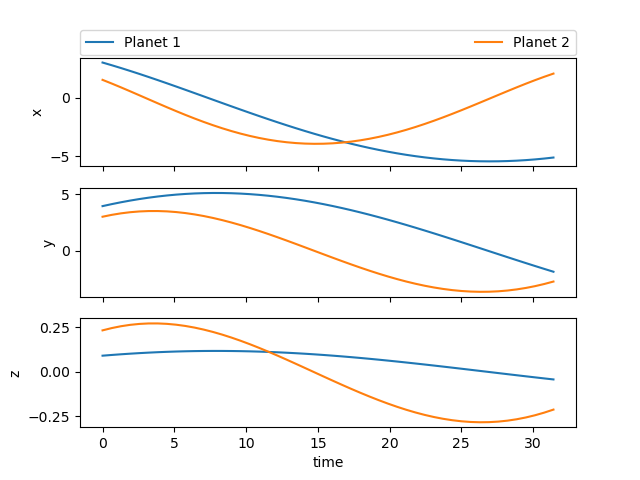
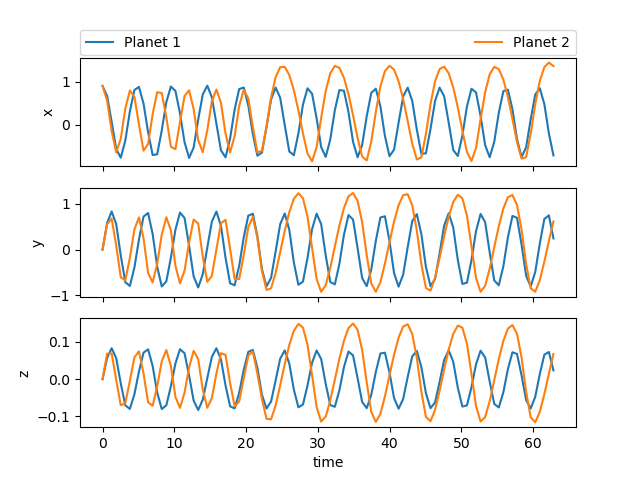
test_lyapunov improvements

diff --git a/python/lyapunov_exponent.py b/python/lyapunov_exponent.py
@@ -1,8 +1,8 @@
 import rebound
 import numpy as np
 import warnings
-import matplotlib
 import matplotlib.pyplot as plt
+from matplotlib import cm
 import visualize_orbit
 
 
@@ -31,7 +31,7 @@ def simu(sim, t):
     with warnings.catch_warnings(record=True) as w:
          warnings.simplefilter("always")
          sim.integrate(t*jov_yr)
-    return  sim, sim.calculate_megno(),(sim.calculate_lyapunov()/(2.*np.pi)) # returns MEGNO and Lypunov exp in 1/years
+    return  sim,(sim.calculate_lyapunov()/(2.*np.pi)) # returns MEGNO and Lypunov exp in 1/years
 #--------------- plotlyapunov_t --------------------
 # lyapunov und zeit
 def plotlyapunov_t(lyapunov, times, k):
@@ -60,11 +60,28 @@ def plotlyapunov_m(l,m):
     ax1.plot(m,l,'o-')
     ax1.grid()
     return fig
-# -------------- plot lyapunov_t_multiple ------------
+#---------------- plotlyapunov_mt ---------------------
+def plotlyapunov_ma(m,a,l):
+    # print(m,a,l)
+    fig, ax = plt.subplots(subplot_kw={"projection": "3d"})
+    # m, a = np.meshgrid(m, a)
+    #ax.set_xscale('log')
+    # m,l = np.meshgrid(m,l)
+    ax.set(zlabel = 'Lyapunov-Exponent', xlabel = '$m$/$M_{Helga}$',
+                ylabel= '$a$/$a_{Jupiter}$')
+    # ax.set_xlim(1e-13, 1e-8)
+    # ax.set_ylim(3.62,3.64 )
+    # Plot the surface.
+    surf = ax.plot_surface(m, a, l, cmap=cm.coolwarm, linewidth=0, antialiased=False)
+    # Add a color bar which maps values to colors.
+    # fig.colorbar(surf, shrink=0.5, aspect=5)
+    return fig
+
+
+# -------------- lyapunov_t_multiple ------------
 # creates a plot of lypanov-exponents over time for n EQUAL simulations of Helga
 # starting from given 'start' time and stepping in time with 'stepsize'
 def lyapunov_t_multiple(n, start, end, steps):
-
     # initialize arrays for data to be stored
     times = np.logspace(start, end, steps)
     print('size(times):',np.size(times))
@@ -80,11 +97,10 @@ def lyapunov_t_multiple(n, start, end, steps):
     # for each simulation calculate the lyapnov exponent and megno
     for k in range(0,n,1):
         sim = visualize_orbit.setup('Helga', h)
-
         # lyapunov = man_lyapunov(sim, times)
         for i,t in enumerate(times):
             #i is index of years
-            sim, m, l = simu(sim,t)
+            sim, l = simu(sim,t)
             # megno[i] = m
             lyapunov[i] = l
             # if t == times[r-1]:
@@ -106,7 +122,7 @@ def lyapunov_a_multiple(start,end,stepsize,t):
     for i,h in enumerate(H):
         sim = visualize_orbit.setup('Helga',h) #jedes mal neu initialisiert
         # lyapunov = man_lyapunov(sim, [t])
-        sim, m, l = simu(sim, t)
+        sim, l = simu(sim, t)
         lyapunov[i] = l
     fig = plotlyapunov_a(lyapunov,H)
     plt.title('Auswertung bei $t = %3d  2 \pi $' %t)
@@ -118,7 +134,7 @@ def lyapunov_helga_m_stoerung(start, end, steps, t):
     lyapunov = np.zeros(steps)
     # masses: logaritmisch ansteigende Massen
     masses = np.logspace(start, end, steps)
-    print(masses)
+    # print(masses)
     m_Helga = 3e-13
     a_Helga = 5.204
     h = 0.696
@@ -128,31 +144,65 @@ def lyapunov_helga_m_stoerung(start, end, steps, t):
         m_stoer = masses[k]*m_Helga
         sim.add(m = m_stoer, a=a_stoer, M=38.41426796877275, omega=0.257, e=.08634521111588543 ,inc=0.0768 )  # Helga NASA
         # lyapunov = man_lyapunov(sim, [t])
-        sim, m, l = simu(sim, t)
+        sim, l = simu(sim, t)
         lyapunov[k] = l
-    print(lyapunov)
+    # print(lyapunov)
     fig = plotlyapunov_m(lyapunov, masses)
     plt.title('$t = %3d  2 \pi $, $a_{Stoer}$/$a_{Jupiter}$ = %5.4f ' %(t,a_stoer))
     fig.savefig('lyapunov_exp_m_variation.png')
+#----------------------------------------------------------------
+def lyapunov_helga_ma_stoerung(m_start,m_end,m_steps,a_start,a_end,a_steps,t):
+    m_Helga = 3e-13
+    a_Helga = 5.204
+    h = 0.696
+    # lyapunovs: O-array
+    lyapunovs = np.zeros((m_steps, a_steps))
+    # masses: logaritmisch ansteigende Massenfaktoren
+    masses = np.logspace(m_start, m_end, m_steps)
+    masses2 = masses * m_Helga
+    print(masses2)
+    # a: linear ansteigende Halbachsenfaktoren
+    a = np.linspace(a_start, a_end, a_steps)
+    a2= a*a_Helga
+    print(a2)
+    for k in range(0,m_steps,1):
+        for j in range(0,a_steps,1):
+            sim = visualize_orbit.setup('Helga',h)
+            m_stoer = masses2[k]
+            a_stoer = a2[j]
+            sim.add(m=m_stoer, a=a_stoer, M=38.41426796877275, omega=0.257, e=.08634521111588543 ,inc=0.0768 )  # Helga NASA
+            # lyapunov = man_lyapunov(sim, [t])
+            sim, l = simu(sim, t)
+            # print(l)
+            lyapunovs[k,j] = l
+    #print(lyapunovs)
+    fig = plotlyapunov_ma(masses, a, lyapunovs)
+    plt.title('$t = %3d$ years' %(t))
+    fig.savefig('lyapunov_exp_ma_stoerung.png')
 
 #----------------------------------------------------------------
-# set parameters for functions
+#-------------------- set parameters for functions---------------
 t_n = 1
 t_steps = 30
 t_start = 1
 t_end = 7
 
-a_t = 1e4   # a_t: Auswertungszeitpunkt
-a_start = 0.696
-a_end = 0.699
-a_stepsize = 0.00005
+a_t = 1e5   # a_t: Auswertungszeitpunkt
+a_start_1 = 0.696
+a_end_1 = 0.699
+a_stepsize_1 = 0.00005
 
-m_start = -1 # m_start: starting exponent base 10
-m_end = 5 # m_end: ending exponent base 10
+m_start = 1 # m_start: starting exponent base 10
+m_end = 3 # m_end: ending exponent base 10
 m_steps = 50
-m_t = 1e5
+m_t = 1e3
+a_start_2 = 0.698
+a_end_2 = 0.701
+a_steps_2 = 30
+t = 5e4
 
 if __name__ == "__main__":
-    lyapunov_t_multiple(t_n, t_start, t_end, t_steps)
-    # lyapunov_a_multiple( a_start, a_end, a_stepsize, a_t)
+    # lyapunov_t_multiple(t_n, t_start, t_end, t_steps)
+    # lyapunov_a_multiple( a_start_1, a_end_1, a_stepsize_1, a_t)
     # lyapunov_helga_m_stoerung(m_start,m_end,m_steps,m_t)
+    lyapunov_helga_ma_stoerung(m_start,m_end,m_steps,a_start_2,a_end_2,a_steps_2,t)

diff --git a/python/visualize_orbit.py b/python/visualize_orbit.py
@@ -12,14 +12,13 @@ def setup(option,h = 1):
         sim.add( m=1. )                         # sun
         sim.add( m=0.000954, a=5.204, M=0.600, omega=0.257, e=0.0489,inc = 0.02276) # Planet 1 (Jupiter) Dtaen von Wiki
         sim.add(m=3e-13, a=5.204*h, M=38.41426796877275, omega=0.257, e=.08634521111588543 ,inc=0.0768 )  # Helga NASA
-        #Masse unbekannt?
         #sim.add( "NAME=Pluto")
     elif option=='fictional':
         sim = rebound.Simulation()
         sim.add( m=1. )                         # sun
-        sim.add( m=1e-3, a=1., e=0.1, inc = 45 )          # Planet 1 (Jupiter)
-        sim.add(m=1e-3, x=1., y=0., z= -1., vx=0, vy=1, vz=0 )           # lesser Planet 2 (fictional)
-        sim.add( m=1e-3, x=1., y=0., z= 1., vx=0, vy=1, vz=0 )         # Planet 3 (fictional)
+        sim.add( m=1e-3, a=1., e=0.1, inc = 0 )          # Planet 1 (Jupiter)
+        sim.add(m=1e-4, a=1., e=0.1, inc = np.pi/2 )           # lesser Planet 2 (fictional)
+        # sim.add( m=1e-3, x=1., y=0., z= 1., vx=0, vy=1, vz=0 )         # Planet 3 (fictional)
     return sim
 
 
@@ -83,21 +82,24 @@ def plotphase(x1,x2):
     fig.savefig('orbit_as_phase_plot.png')
 
 def PAForbitplot(sim):
-    fig, ax = rebound.OrbitPlot(sim, fancy = True, color=True, lw=1)
+    fig, ax = rebound.OrbitPlot(sim, fancy = False, color=True, lw=1)
     fig.savefig('orbitplot.png')
 
 #---------------- the real deal ---------------
 h=0.696
-sim1 = setup('Helga',h)
-# sim1.status()
-PAForbitplot(sim1)
-# sim1.status()
-a = 5
-tmax = a * 2*np.pi
+
+a = int(1e1)
+tmax = a*2*np.pi
 Ntimes = a*10
-delta_t=1e-3
-sim1, times, x, y, z = PAFintegrate(sim1, tmax, Ntimes, delta_t)
-#sim1.status()
-plotabsolutes(x,y,z,sim1.N-1)
-plotphase(x,y)
-#sim1.status()
+delta_t = 1e-3
+
+if __name__ == "__main__":
+    sim1 = setup('fictional',h)
+    sim1, times, x, y, z = PAFintegrate(sim1, tmax, Ntimes, delta_t)
+    # sim1.status()
+    PAForbitplot(sim1)
+    # sim1.status()
+    # sim1.status()
+    plotabsolutes(x,y,z,sim1.N-1)
+    plotphase(x,y)
+    # sim1.status()

diff --git a/python/trash.py b/python/trash.py
@@ -1,0 +1,27 @@
+import matplotlib.pyplot as plt
+from matplotlib import cm
+from matplotlib.ticker import LinearLocator
+import numpy as np
+
+fig, ax = plt.subplots(subplot_kw={"projection": "3d"})
+
+# Make data.
+X = np.arange(-5, 5, 0.25)
+Y = np.arange(-5, 5, 0.25)
+X, Y = np.meshgrid(X, Y)
+R = np.sqrt(X**2 + Y**2)
+Z = np.sin(R)
+
+# Plot the surface.
+surf = ax.plot_surface(X, Y, Z, cmap=cm.coolwarm,
+                       linewidth=0, antialiased=False)
+
+# Customize the z axis.
+ax.set_zlim(-1.01, 1.01)
+ax.zaxis.set_major_locator(LinearLocator(10))
+# A StrMethodFormatter is used automatically
+ax.zaxis.set_major_formatter('{x:.02f}')
+
+# Add a color bar which maps values to colors.
+fig.colorbar(surf, shrink=0.5, aspect=5)
+fig.savefig('trash.png')

diff --git a/python/test_lyapunov.py b/python/test_lyapunov.py
@@ -1,7 +1,6 @@
 import rebound
 import numpy as np
 import warnings
-import matplotlib
 import matplotlib.pyplot as plt
 import visualize_orbit
 
@@ -27,7 +26,7 @@ def test_1():
     print('L_exp 1:  ', round(l1,3), '   L_exp 2:  ', round(l2,3))
 
 def test_2():
-    a = [16, 64,256,1024,4098]
+    a = [16,64,256,1024,4098]
     Lyapunov=[]
     S=[]
     T = []
